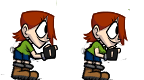
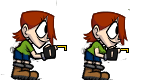
remplacement image coffre

diff --git a/js/Preload.js b/js/Preload.js
@@ -16,7 +16,7 @@ InfiniteScroller.Preload.prototype = {
         //load game assets
         this.load.spritesheet('girl', 'assets/images/girl.png', 82, 80, 6);
         this.load.spritesheet('playerScratch', 'assets/images/pls3.png', 53, 61, 2);
-        this.load.spritesheet('playerDig', 'assets/images/open.png', 63, 80, 2);
+        this.load.spritesheet('playerDig', 'assets/images/open.png', 72, 80, 2);
 
 
         this.load.image('ground', 'assets/images/ground.png');

diff --git a/js/Game.js b/js/Game.js
@@ -93,7 +93,7 @@ InfiniteScroller.Game.prototype = {
     this.heartpts;
     this.wrapping = true;
     this.stopped = false;
-    this.currentLife = 1
+    this.currentLife = 5;
 
     //create an array of possible toys that can be gathered from toy mounds
     var heart = this.game.add.sprite(0, this.game.height - 130, 'heart');
